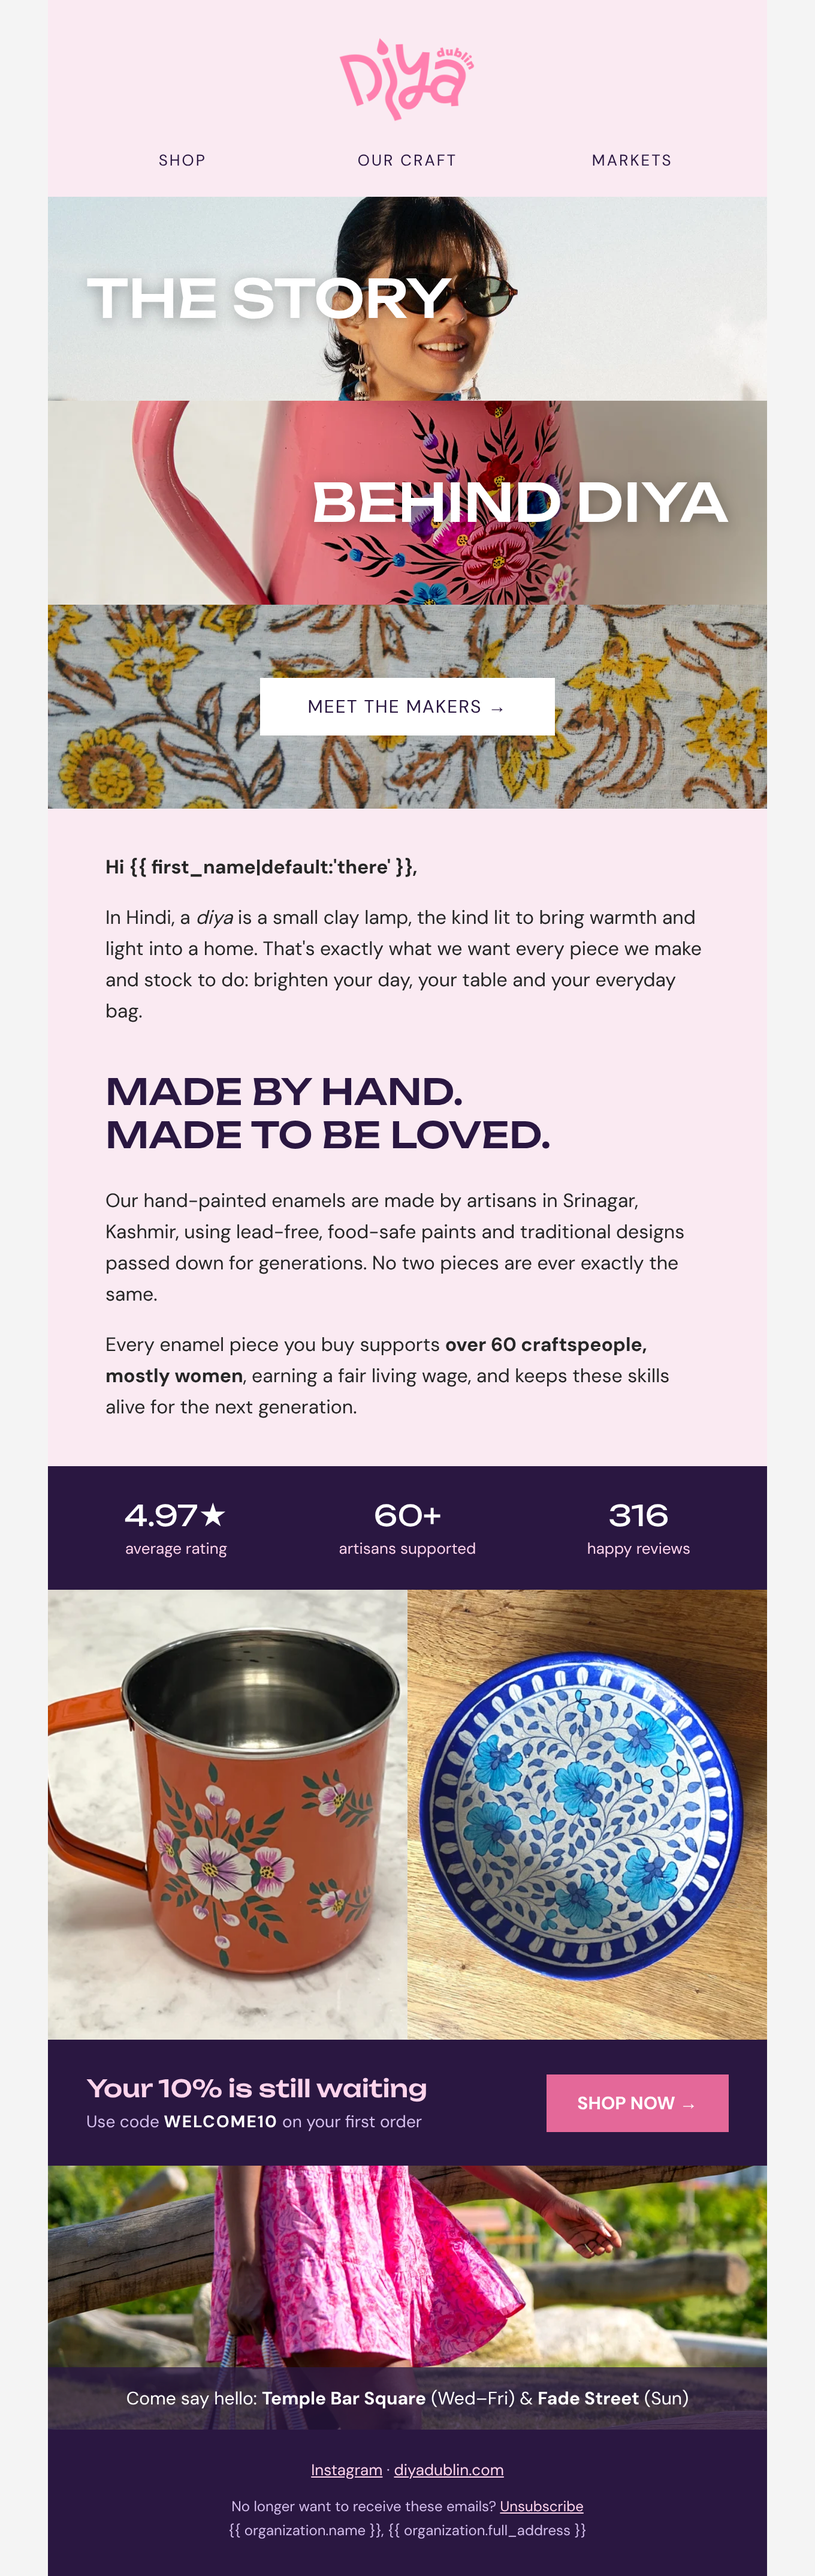
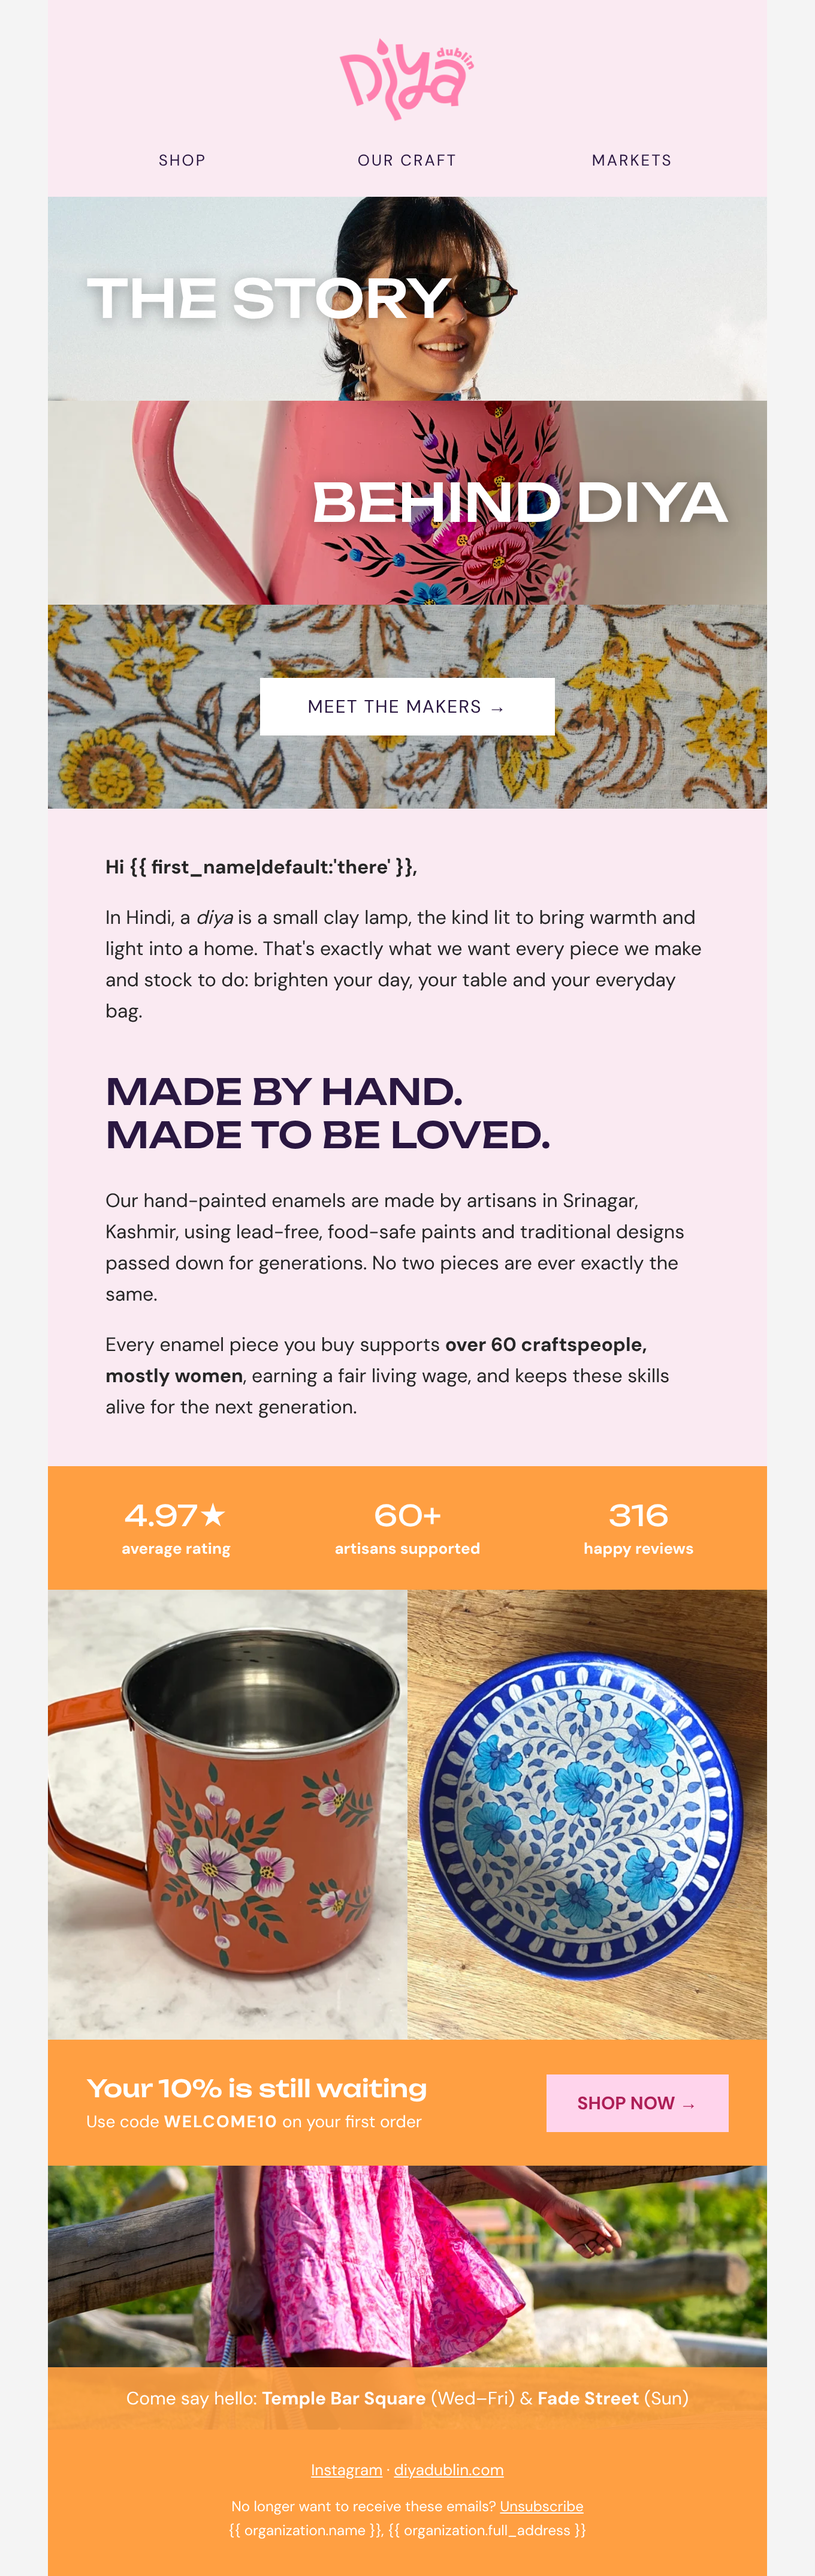
Switch Diya welcome email 2 accent blocks to brand orange
Claude-Session: https://claude.ai/code/session_01W3N4ao7pVHaJTSMbiEX3F1

Changed region(s): [[0.0618, 0.905, 0.9574, 1.0], [0.0618, 0.7802, 0.9574, 0.8426], [0.0618, 0.5617, 0.9574, 0.6241]]

diff --git a/consultancy/emails/diya-welcome-email-2.html b/consultancy/emails/diya-welcome-email-2.html
@@ -67,19 +67,19 @@
   </td></tr>
 
   <!-- Stats bar -->
-  <tr><td style="background:#2A1741;padding:26px 12px;">
+  <tr><td style="background:#FF9F42;padding:26px 12px;">
     <table role="presentation" width="100%" cellpadding="0" cellspacing="0"><tr>
-      <td align="center" width="33%" style="font-family:'DM Sans',Arial,sans-serif;color:#FFD4EC;">
+      <td align="center" width="33%" style="font-family:'DM Sans',Arial,sans-serif;color:#ffffff;">
         <div class="stat" style="font-family:'Unbounded',Arial,sans-serif;font-size:24px;color:#ffffff;">4.97★</div>
-        <div style="font-size:13px;padding-top:4px;">average rating</div>
+        <div style="font-size:13px;padding-top:4px;font-weight:700;">average rating</div>
       </td>
-      <td align="center" width="34%" style="font-family:'DM Sans',Arial,sans-serif;color:#FFD4EC;">
+      <td align="center" width="34%" style="font-family:'DM Sans',Arial,sans-serif;color:#ffffff;">
         <div class="stat" style="font-family:'Unbounded',Arial,sans-serif;font-size:24px;color:#ffffff;">60+</div>
-        <div style="font-size:13px;padding-top:4px;">artisans supported</div>
+        <div style="font-size:13px;padding-top:4px;font-weight:700;">artisans supported</div>
       </td>
-      <td align="center" width="33%" style="font-family:'DM Sans',Arial,sans-serif;color:#FFD4EC;">
+      <td align="center" width="33%" style="font-family:'DM Sans',Arial,sans-serif;color:#ffffff;">
         <div class="stat" style="font-family:'Unbounded',Arial,sans-serif;font-size:24px;color:#ffffff;">316</div>
-        <div style="font-size:13px;padding-top:4px;">happy reviews</div>
+        <div style="font-size:13px;padding-top:4px;font-weight:700;">happy reviews</div>
       </td>
     </tr></table>
   </td></tr>
@@ -93,29 +93,29 @@
   </td></tr>
 
   <!-- CTA band -->
-  <tr><td style="background:#2A1741;padding:28px 32px;">
+  <tr><td style="background:#FF9F42;padding:28px 32px;">
     <table role="presentation" width="100%" cellpadding="0" cellspacing="0"><tr>
       <td class="cta-text" valign="middle" style="font-family:'DM Sans',Arial,sans-serif;color:#ffffff;">
-        <div style="font-family:'Unbounded',Arial,sans-serif;font-size:20px;font-weight:500;color:#FFD4EC;">Your 10% is still waiting</div>
-        <div style="font-size:14px;padding-top:6px;color:#D4BFED;">Use code <strong style="color:#ffffff;letter-spacing:1px;">WELCOME10</strong> on your first order</div>
+        <div style="font-family:'Unbounded',Arial,sans-serif;font-size:20px;font-weight:500;color:#ffffff;">Your 10% is still waiting</div>
+        <div style="font-size:14px;padding-top:6px;color:#ffffff;">Use code <strong style="color:#ffffff;letter-spacing:1px;">WELCOME10</strong> on your first order</div>
       </td>
       <td class="cta-btn" align="right" valign="middle" width="170">
-        <a href="https://www.diyadublin.com/collections/all" style="display:inline-block;background:#E46899;color:#ffffff;text-decoration:none;font-family:'DM Sans',Arial,sans-serif;font-weight:700;font-size:15px;padding:14px 26px;">SHOP NOW →</a>
+        <a href="https://www.diyadublin.com/collections/all" style="display:inline-block;background:#FFD4EC;color:#AD1F57;text-decoration:none;font-family:'DM Sans',Arial,sans-serif;font-weight:700;font-size:15px;padding:14px 26px;">SHOP NOW →</a>
       </td>
     </tr></table>
   </td></tr>
 
   <!-- Closing image band: markets -->
   <tr><td background="https://www.diyadublin.com/cdn/shop/files/DSC04689_b4bb63a1-e83a-4dc0-bfe9-8b2188dc9667.jpg?width=1200" style="background-image:url('https://www.diyadublin.com/cdn/shop/files/DSC04689_b4bb63a1-e83a-4dc0-bfe9-8b2188dc9667.jpg?width=1200');background-size:cover;background-position:center 35%;height:220px;" valign="bottom" align="center">
-    <div style="background:rgba(42,23,65,.78);padding:16px 20px;font-family:'DM Sans',Arial,sans-serif;font-size:15px;color:#ffffff;">
+    <div style="background:rgba(255,159,66,.92);padding:16px 20px;font-family:'DM Sans',Arial,sans-serif;font-size:15px;color:#ffffff;">
       Come say hello: <strong>Temple Bar Square</strong> (Wed–Fri) &amp; <strong>Fade Street</strong> (Sun)
     </div>
   </td></tr>
 
   <!-- Footer -->
-  <tr><td align="center" style="background:#2A1741;padding:24px 24px 28px;font-family:'DM Sans',Arial,sans-serif;font-size:12px;line-height:20px;color:#D4BFED;">
-    <div style="padding-bottom:10px;font-size:13px;"><a href="https://www.instagram.com/diya_dublin/" style="color:#FFD4EC;">Instagram</a> · <a href="https://www.diyadublin.com" style="color:#FFD4EC;">diyadublin.com</a></div>
-    No longer want to receive these emails? <a href="{% unsubscribe %}" style="color:#FFD4EC;">Unsubscribe</a><br>
+  <tr><td align="center" style="background:#FF9F42;padding:24px 24px 28px;font-family:'DM Sans',Arial,sans-serif;font-size:12px;line-height:20px;color:#ffffff;">
+    <div style="padding-bottom:10px;font-size:13px;"><a href="https://www.instagram.com/diya_dublin/" style="color:#ffffff;">Instagram</a> · <a href="https://www.diyadublin.com" style="color:#ffffff;">diyadublin.com</a></div>
+    No longer want to receive these emails? <a href="{% unsubscribe %}" style="color:#ffffff;">Unsubscribe</a><br>
     {{ organization.name }}, {{ organization.full_address }}
   </td></tr>
 
